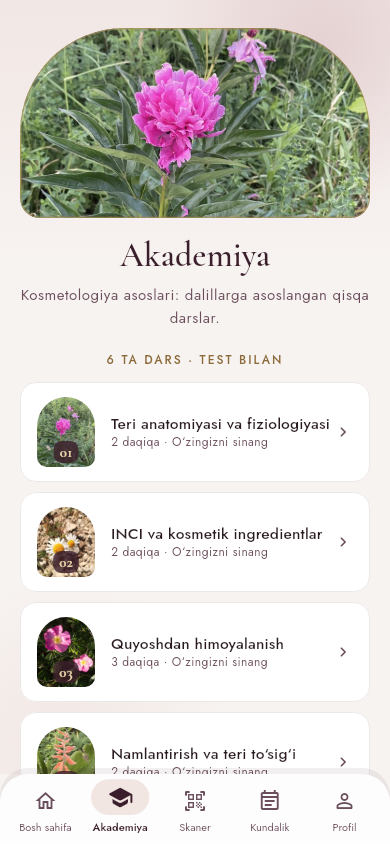
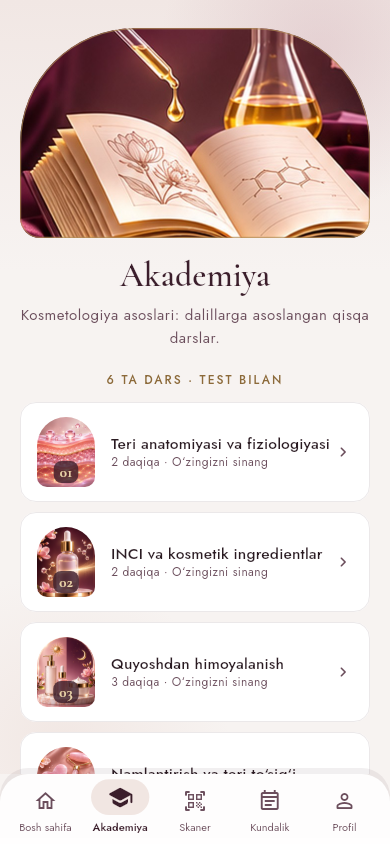
feat(design): bo'limlar uchun mavzuli lyuks 3D rasmlar (bosh sahifa, AI, Akademiya, retsept, ritual, kosmetikam, kundalik, parvarish, teri)
Claude-Session: https://claude.ai/code/session_01DHMppTHpVgUVFN7o5nWH6w

diff --git a/mobile/lib/features/ai/ai_page.dart b/mobile/lib/features/ai/ai_page.dart
@@ -8,7 +8,7 @@ import '../../app/app_state.dart';
 import '../../app/theme.dart';
 import '../../data/backend_api.dart';
 import '../../l10n/app_localizations.dart';
-import '../../ui/brand.dart';
+import '../../ui/arch_photo.dart';
 import '../../ui/honest_note.dart';
 import '../../ui/safe_nav.dart';
 import '../../ui/widgets.dart';
@@ -131,7 +131,7 @@ class _AiPageState extends State<AiPage> {
                   padding: const EdgeInsetsDirectional.fromSTEB(20, 4, 20, 16),
                   children: [
                     const SizedBox(height: 6),
-                    const Center(child: SamiyaMark(size: 72)),
+                    const ArchPhoto('assets/tiles/ai.jpg', height: 200),
                     const SizedBox(height: 14),
                     Text(l.tileAi, textAlign: TextAlign.center, style: t.headlineMedium?.copyWith(fontSize: 30)),
                     const SizedBox(height: 6),

diff --git a/mobile/lib/features/care/care_pages.dart b/mobile/lib/features/care/care_pages.dart
@@ -161,7 +161,7 @@ class RecipesPage extends StatelessWidget {
       title: l.recipesTitle,
       back: '/home',
       children: [
-        const ArchPhoto('assets/photos/deco_jasmine.jpg', height: 160),
+        const ArchPhoto('assets/tiles/recipes.jpg', height: 190),
         const SizedBox(height: 14),
         Text(l.recipesTitle, style: t.headlineMedium?.copyWith(fontSize: 30)),
         const SizedBox(height: 6),
@@ -263,7 +263,7 @@ class RitualsPage extends StatelessWidget {
       title: l.ritualsTitle,
       back: '/home',
       children: [
-        const ArchPhoto('assets/photos/deco_lavender.jpg', height: 160),
+        const ArchPhoto('assets/tiles/rituals.jpg', height: 190),
         const SizedBox(height: 14),
         Text(l.ritualsTitle, style: t.headlineMedium?.copyWith(fontSize: 30)),
         const SizedBox(height: 6),

diff --git a/mobile/lib/features/personal/skin_page.dart b/mobile/lib/features/personal/skin_page.dart
@@ -1,6 +1,8 @@
 import 'package:flutter/material.dart';
 import 'package:go_router/go_router.dart';
 
+import '../../ui/arch_photo.dart';
+
 import '../../app/app_state.dart';
 import '../../app/theme.dart';
 import '../../data/personal_store.dart';
@@ -56,6 +58,8 @@ class _SkinPageState extends State<SkinPage> {
                       crossAxisAlignment: CrossAxisAlignment.start,
                       children: [
                         const SizedBox(height: 8),
+                        const ArchPhoto('assets/tiles/skin.jpg', height: 180),
+                        const SizedBox(height: 14),
                         SoftNote(key: const Key('skin-note'), icon: Icons.info_outline_rounded, text: l.skinNote),
                         const SizedBox(height: 18),
                         SectionTitle(l.skinTypeTitle),

diff --git a/mobile/lib/features/home/home_page.dart b/mobile/lib/features/home/home_page.dart
@@ -504,16 +504,8 @@ class _Collection extends StatelessWidget {
 }
 
 /// Bo'lim rasmlari (CC0, assets/photos).
-const _tilePhotos = {
-  'scanner': 'assets/photos/rose-water.jpg',
-  'skin': 'assets/photos/chamomile.jpg',
-  'routine': 'assets/photos/deco_jasmine.jpg',
-  'academy': 'assets/photos/deco_peony.jpg',
-  'ai': 'assets/photos/deco_lavender.jpg',
-  'journal': 'assets/photos/deco_rose.jpg',
-  'recipes': 'assets/photos/oat.jpg',
-  'rituals': 'assets/photos/rosehip-oil.jpg',
-  'shelf': 'assets/photos/olive-oil.jpg',
+final _tilePhotos = {
+  for (final k in ['scanner', 'skin', 'routine', 'academy', 'ai', 'journal', 'recipes', 'rituals', 'shelf']) k: 'assets/tiles/$k.jpg',
 };
 
 /// Jurnal muqovasi uslubidagi bosh kartochka: portret, ud-olxo'ri gradiyenti va serif sarlavha.

diff --git a/mobile/lib/features/academy/lesson_page.dart b/mobile/lib/features/academy/lesson_page.dart
@@ -14,12 +14,12 @@ import '../pro/pro_page.dart';
 
 /// Har bir dars uchun nafis sarlavha rasmi (CC0, assets/photos).
 const lessonPhotos = {
-  'skin': 'assets/photos/deco_peony.jpg',
-  'inci': 'assets/photos/chamomile.jpg',
-  'spf': 'assets/photos/deco_rose.jpg',
-  'moist': 'assets/photos/aloe-vera.jpg',
-  'hygiene': 'assets/photos/deco_lavender.jpg',
-  'safety': 'assets/photos/deco_jasmine.jpg',
+  'skin': 'assets/tiles/skin.jpg',
+  'inci': 'assets/tiles/scanner.jpg',
+  'spf': 'assets/tiles/routine.jpg',
+  'moist': 'assets/tiles/rituals.jpg',
+  'hygiene': 'assets/tiles/shelf.jpg',
+  'safety': 'assets/tiles/academy.jpg',
 };
 
 class LessonPage extends StatelessWidget {

diff --git a/mobile/test/visual/screens_test.dart b/mobile/test/visual/screens_test.dart
@@ -57,6 +57,9 @@ void main() {
           }
           await precacheImage(const AssetImage('assets/images/logo_square.jpg'), ctx);
           await precacheImage(const AssetImage('assets/images/hero_card.jpg'), ctx);
+          for (final b in Directory('assets/tiles').listSync().whereType<File>()) {
+            await precacheImage(AssetImage('assets/tiles/${b.uri.pathSegments.last}'), ctx);
+          }
           for (final b in Directory('assets/photos').listSync().whereType<File>().where((f) => f.path.endsWith('.jpg'))) {
             await precacheImage(AssetImage('assets/photos/${b.uri.pathSegments.last}'), ctx);
           }

diff --git a/mobile/lib/features/shelf/shelf_page.dart b/mobile/lib/features/shelf/shelf_page.dart
@@ -35,7 +35,7 @@ class ShelfPage extends StatelessWidget {
                     child: ListView(
                       padding: const EdgeInsetsDirectional.fromSTEB(20, 4, 20, 24),
                       children: [
-                        const ArchPhoto('assets/photos/deco_rose.jpg', height: 150),
+                        const ArchPhoto('assets/tiles/shelf.jpg', height: 190),
                         const SizedBox(height: 14),
                         Text(l.shelfTitle, style: t.headlineMedium?.copyWith(fontSize: 30)),
                         const SizedBox(height: 6),

diff --git a/mobile/lib/features/personal/routine_page.dart b/mobile/lib/features/personal/routine_page.dart
@@ -55,7 +55,7 @@ class _RoutinePageState extends State<RoutinePage> {
                         crossAxisAlignment: CrossAxisAlignment.start,
                         children: [
                           const SizedBox(height: 8),
-                          const ArchPhoto('assets/photos/deco_jasmine.jpg', height: 150, alignment: Alignment(0, -0.3)),
+                          const ArchPhoto('assets/tiles/routine.jpg', height: 190),
                           const SizedBox(height: 16),
                           Wrap(
                             spacing: 8,

diff --git a/mobile/lib/features/tabs/academy_page.dart b/mobile/lib/features/tabs/academy_page.dart
@@ -29,7 +29,7 @@ class AcademyPage extends StatelessWidget {
       child: ListView(
         padding: const EdgeInsetsDirectional.fromSTEB(20, 28, 20, 28),
         children: [
-          const ArchPhoto('assets/photos/deco_peony.jpg', height: 190, alignment: Alignment(0, -0.2)),
+          const ArchPhoto('assets/tiles/academy.jpg', height: 210, alignment: Alignment(0, -0.2)),
           const SizedBox(height: 18),
           Text(l.navAcademy, textAlign: TextAlign.center, style: t.headlineMedium?.copyWith(fontSize: 34)),
           const SizedBox(height: 8),

diff --git a/mobile/lib/features/personal/journal_page.dart b/mobile/lib/features/personal/journal_page.dart
@@ -118,7 +118,7 @@ class JournalPage extends StatelessWidget {
               ],
             ),
             const SizedBox(height: 14),
-            const ArchPhoto('assets/photos/deco_lavender.jpg', height: 150, alignment: Alignment(0, -0.2)),
+            const ArchPhoto('assets/tiles/journal.jpg', height: 190),
             const SizedBox(height: 16),
             if (p.journal.isEmpty)
               ElegantEmpty(key: const Key('journal-empty'), title: l.journalEmptyTitle, body: l.journalEmpty)
